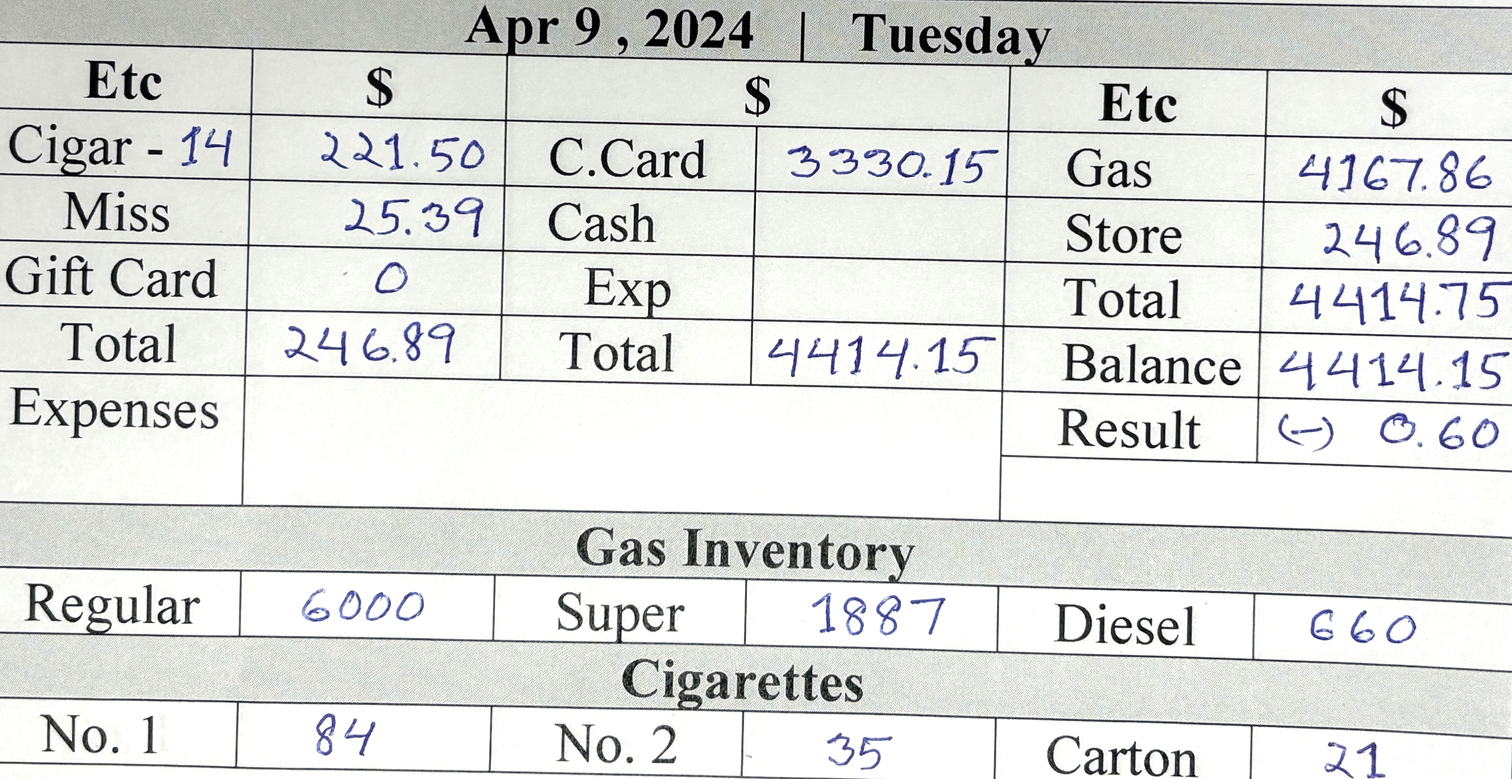
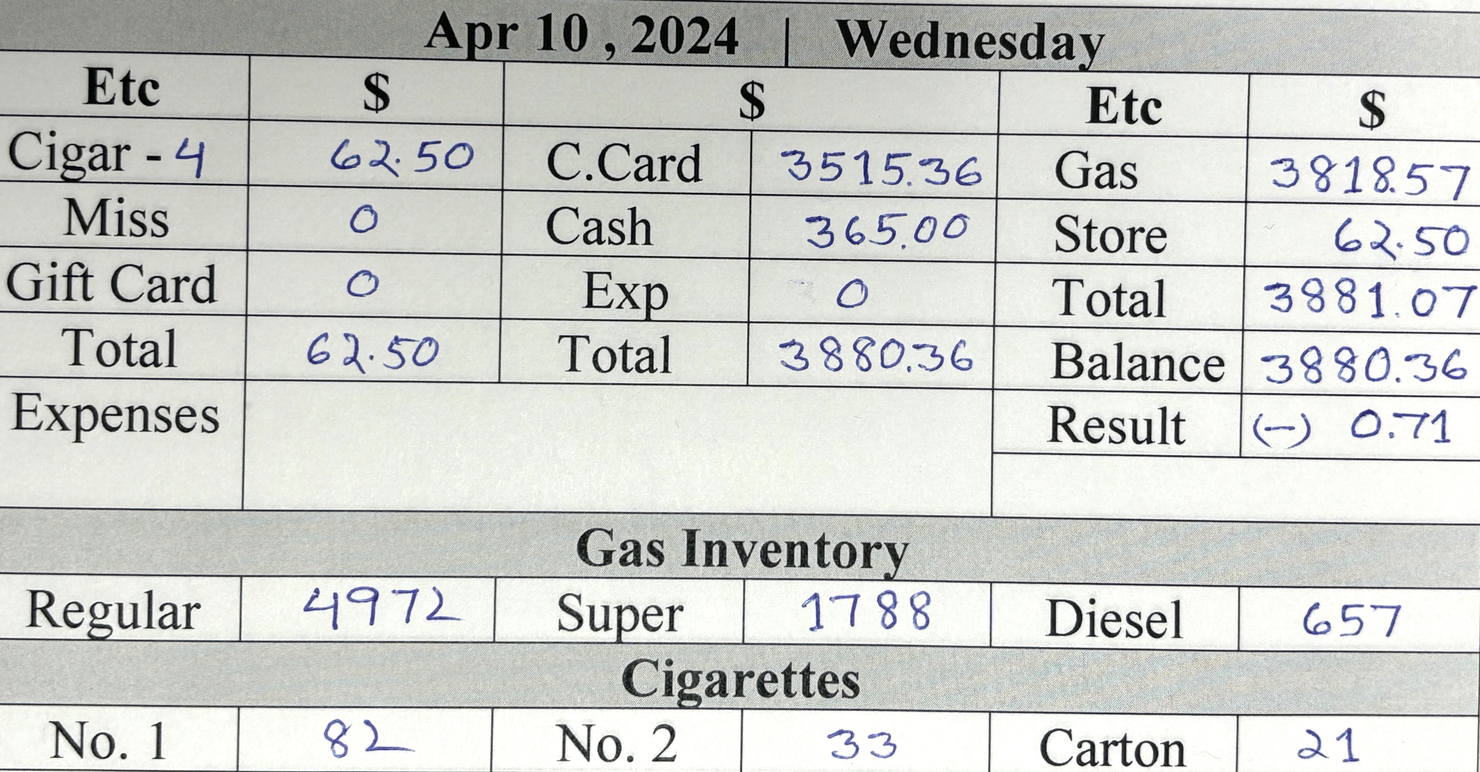
d

diff --git a/card.min.html b/card.min.html
@@ -1,1 +1,1 @@
-<!DOCTYPE html> <html lang="en"> <head> <meta charset="UTF-8"> <meta http-equiv="X-UA-Compatible" content="IE=edge"> <meta name="viewport" content="width=device-width,initial-scale=1"> <title>Gallon Info</title> <link rel="stylesheet" href="https://cdn.jsdelivr.net/npm/bootstrap@5.3.0-alpha1/dist/css/bootstrap.min.css"> </head> <body> <div class="card-group d-sm-flex flex-row bd-highlight mb- justify-content-center"> <div class="card bg-secondary align-items-center justify-content-center" style="height:50px"> <div class="card-body text-info fst-italic"> <h5 class="card-title fw-bolder text-center">Regular Price : <span class="text-warning">$3.25</span></h5> </div> </div> <div class="card bg-secondary align-items-center justify-content-center" style="height:50px"> <div class="card-body text-info fst-italic"> <h5 class="card-title fw-bolder text-center pt-">Silver Price : <span class="text-warning">$4.19</span></h5> </div> </div> <div class="card bg-secondary align-items-center justify-content-center" style="height:50px"> <div class="card-body text-info fst-italic"> <h5 class="card-title fw-bolder text-center">Super Price : <span class="text-warning">$4.29</span></h5> </div> </div> <div class="card bg-secondary align-items-center justify-content-center" style="height:50px"> <div class="card-body text-info fst-italic"> <h5 class="card-title fw-bolder text-center">Diesel Price : <span class="text-warning">$4.39</span></h5> </div> </div> </div> <div class="card-group"> <div class="card"> <button type="button" class="btn btn-warning text- fs- fw-bold text-uppercase"> For store Details <a title="printPage Me" class="text-bg-danger ms-3 fw-bolder p-1 rounded-3 text-decoration-none" href="index.html"> Click Me </a> </button> </div> </div> <div class="card-group m-0 d-sm-flex flex-row bd-highlight mb-"> <div class="card me-1 bg-info"> <h5 class="card-title text-center pt-4 m-0"> <button class="p-1 rounded-3" type="button"><a title="Click Me" class="text-decoration-none text-primary fw-bolder" href="index.html">   </a> </button> </h5>  <p class="card-text"></p> <img src="allPic/9.jpg" class="card-img-top text-danger text-center fw-bolder fs-3" alt="Call Rashid "> <div class="card-body">   <p class="card-text"></p> </div> </div> <div class="card me-1 bg-info"> <h5 class="card-title text-center pt-4 m-0"> <button class="p-1 rounded-3" type="button"><a title="Click Me" class="text-primary fw-bolder text-decoration-none" href="index.html"> Apr 8,2024 </a> </button> </h5>  <p class="card-text"></p> <img src="allPic/8.jpg" class="card-img-top text-center text-bg-danger" alt="Not Done"> <div class="card-body">   <p class="card-text"></p> </div> </div> <div class="card ms- bg-info"> <h5 class="card-title text-center pt-4 m-0"> <button class="p-1 rounded-3" type="button"><a title="Click Me" class="text-primary fw-bolder text-decoration-none" href="index.html"> Apr 7,2024 </a> </button> </h5>  <p class="card-text"></p> <img src="allPic/7.jpg" class="card-img-top text-center text-bg-danger" alt="Not Done"> <div class="card-body">   <p class="card-text"></p> </div> </div> <div class="card me-1 bg-info"> <h5 class="card-title text-center pt-4 m-0"> <button class="p-1 rounded-3" type="button"><a title="Click Me" class="text-primary fw-bolder text-decoration-none" href="index.html"> Apr 6,2024 </a> </button> </h5>  <p class="card-text"></p> <img title="Pic" src="allPic/6.jpg" class="card-img-top text-bg-danger fw-bolder text-center" alt="Already Done"> <div class="card-body">   <p class="card-text"></p> </div> </div> </div> <div class="card"> <div class="card-header bg-warning text-dark fw-bolder text-center py-3"> All Rights Reserved @ Jaber Ali , 2024 </div> </div>  <script type="text/javascript">const timeElement=document.querySelector(".time"),dateElement=document.querySelector(".date");function formatTime(e){e.getHours(),e.getMinutes(),e.getHours();return""}function formatDate(e){return` ${["January","Marruary","March","April","May","June","July","August","September","October","November","December"][e.getMonth()]} ${e.getDate()-1}, ${e.getFullYear()}`}setInterval((()=>{const e=new Date;timeElement.textContent=formatTime(e),dateElement.textContent=formatDate(e)}),200)</script> 
+<!DOCTYPE html> <html lang="en"> <head> <meta charset="UTF-8"> <meta http-equiv="X-UA-Compatible" content="IE=edge"> <meta name="viewport" content="width=device-width,initial-scale=1"> <title>Gallon Info</title> <link rel="stylesheet" href="https://cdn.jsdelivr.net/npm/bootstrap@5.3.0-alpha1/dist/css/bootstrap.min.css"> </head> <body> <div class="card-group d-sm-flex flex-row bd-highlight mb- justify-content-center"> <div class="card bg-secondary align-items-center justify-content-center" style="height:50px"> <div class="card-body text-info fst-italic"> <h5 class="card-title fw-bolder text-center">Regular Price : <span class="text-warning">$3.25</span></h5> </div> </div> <div class="card bg-secondary align-items-center justify-content-center" style="height:50px"> <div class="card-body text-info fst-italic"> <h5 class="card-title fw-bolder text-center pt-">Silver Price : <span class="text-warning">$4.19</span></h5> </div> </div> <div class="card bg-secondary align-items-center justify-content-center" style="height:50px"> <div class="card-body text-info fst-italic"> <h5 class="card-title fw-bolder text-center">Super Price : <span class="text-warning">$4.29</span></h5> </div> </div> <div class="card bg-secondary align-items-center justify-content-center" style="height:50px"> <div class="card-body text-info fst-italic"> <h5 class="card-title fw-bolder text-center">Diesel Price : <span class="text-warning">$4.39</span></h5> </div> </div> </div> <div class="card-group"> <div class="card"> <button type="button" class="btn btn-warning text- fs- fw-bold text-uppercase"> For store Details <a title="printPage Me" class="text-bg-danger ms-3 fw-bolder p-1 rounded-3 text-decoration-none" href="index.html"> Click Me </a> </button> </div> </div> <div class="card-group m-0 d-sm-flex flex-row bd-highlight mb-"> <div class="card me-1 bg-info"> <h5 class="card-title text-center pt-4 m-0"> <button class="p-1 rounded-3" type="button"><a title="Click Me" class="text-decoration-none text-primary fw-bolder" href="index.html">   </a> </button> </h5>  <p class="card-text"></p> <img src="allPic/10.jpg" class="card-img-top text-danger text-center fw-bolder fs-3" alt="Call Rashid "> <div class="card-body">   <p class="card-text"></p> </div> </div> <div class="card me-1 bg-info"> <h5 class="card-title text-center pt-4 m-0"> <button class="p-1 rounded-3" type="button"><a title="Click Me" class="text-primary fw-bolder text-decoration-none" href="index.html"> Apr 9,2024 </a> </button> </h5>  <p class="card-text"></p> <img src="allPic/9.jpg" class="card-img-top text-center text-bg-danger" alt="Not Done"> <div class="card-body">   <p class="card-text"></p> </div> </div> <div class="card ms- bg-info"> <h5 class="card-title text-center pt-4 m-0"> <button class="p-1 rounded-3" type="button"><a title="Click Me" class="text-primary fw-bolder text-decoration-none" href="index.html"> Apr 8,2024 </a> </button> </h5>  <p class="card-text"></p> <img src="allPic/8.jpg" class="card-img-top text-center text-bg-danger" alt="Not Done"> <div class="card-body">   <p class="card-text"></p> </div> </div> <div class="card me-1 bg-info"> <h5 class="card-title text-center pt-4 m-0"> <button class="p-1 rounded-3" type="button"><a title="Click Me" class="text-primary fw-bolder text-decoration-none" href="index.html"> Apr 7,2024 </a> </button> </h5>  <p class="card-text"></p> <img title="Pic" src="allPic/7.jpg" class="card-img-top text-bg-danger fw-bolder text-center" alt="Already Done"> <div class="card-body">   <p class="card-text"></p> </div> </div> </div> <div class="card"> <div class="card-header bg-warning text-dark fw-bolder text-center py-3"> All Rights Reserved @ Jaber Ali , 2024 </div> </div>  <script type="text/javascript">const timeElement=document.querySelector(".time"),dateElement=document.querySelector(".date");function formatTime(e){e.getHours(),e.getMinutes(),e.getHours();return""}function formatDate(e){return` ${["January","Marruary","March","April","May","June","July","August","September","October","November","December"][e.getMonth()]} ${e.getDate()-1}, ${e.getFullYear()}`}setInterval((()=>{const e=new Date;timeElement.textContent=formatTime(e),dateElement.textContent=formatDate(e)}),200)</script> 

diff --git a/index.min.html b/index.min.html
@@ -1,1 +1,1 @@
-<!DOCTYPE html> <html lang="en"> <head> <meta charset="UTF-8"> <meta http-equiv="X-UA-Compatible" content="IE=edge"> <meta name="viewport" content="width=device-width,initial-scale=1"> <title>Store Info</title> <link rel="stylesheet" href="https://cdn.jsdelivr.net/npm/bootstrap@5.3.0-alpha1/dist/css/bootstrap.min.css"> </head> <body> <div class="text-bg-success py-2 fw-bold text-uppercase"> <marquee behavior="" direction=""><span class="text-bolder text-bg-danger rounded-circle m-lg-2 fs-">***</span> Personal Business Information <span class="text-bolder text-bg-danger rounded-circle m-lg-2 fs-">***</span></marquee> </div> <div class="card-group"> <div class="card"> <button type="button" class="btn btn-warning fs- fw-bold text-uppercase"> For Gallon Details <a title="printPage Me" class="text-bg-danger ms-3 fw-bolder p-1 rounded-3 text-decoration-none" href="card.html"> Click Me </a> </button> </div> <div class="card"> <button type="button" class="btn btn-warning fs- fw-bold text-uppercase"> Weekly Total Money<a title="printPage Me" class="text-bg-danger ms-3 fw-bolder p-1 rounded-3 text-decoration-none" href="weekly.html"> Click Me </a> </button> </div> </div> <div class="card-group"> <div class="card"> <button type="button" class="btn btn-warning fs- fw-bold text-uppercase"> Order Cigarettes <a title="printPage Me" class="text-bg-danger ms-3 fw-bolder p-1 rounded-3 text-decoration-none" href="cigarettes.html"> Click Me </a> </button> </div> <div class="card"> <button type="button" class="btn btn-warning fs- fw-bold text-uppercase"> Oil Inventory<a title="printPage Me" class="text-bg-danger ms-3 fw-bolder p-1 rounded-3 text-decoration-none" href="oil.html"> Click Me </a> </button> </div> </div> <div class="text-center py-2"> <button class="fw-bold fs-5 rounded-2 text-bg-light text-primary"> <a title="printPage Me" class="text-decoration-none" href="card.html">   <span class=""> <button class="ms-5 fw-bolder rounded-2" onclick="printPage()"> Print Me </button></span> </a> </button> </div> <div class="card-group"> <div class="card"> <button type="button" class="btn btn-info fs- fw-bold text-uppercase"> Shift Report <span class="text-white ms-1">*</span> </button> <img src="allPic/hisab.jpg" class="card-img-top text-center text-bg-danger" alt="NOT FINISH"> </div> </div> <div class="card-grou"> <div class="card pb-3"> <button type="button" class="btn btn-secondary fs fw-bold text-uppercase"> Exp : <span class="text-warning ms-3">0 </span> </button> </div> </div> <div class="card-group"> <div class="card"> <button type="button" class="btn btn-secondary fs- fw-bold text-uppercase"> Auto shop </button> </div> </div> <div class="pb-3"> <div class="d-flex justify-content-around border border-dark fw-bolder"> <div class="p-0 text-info">T.M</div> <div class="p-0 text-danger">1440 </div> <div class="p-0 text-info">Etc</div> <div class="p-0 text-danger">554</div> <div class="p-0 text-info">Rest</div> <div class="p-0 text-danger">886</div> </div> </div> <!-- #footer start --> <div class="text-bg-warning text-center py-3 fw-bold"> All Rights Reserved @ Jaber Ali , 2024 </div>  <script type="text/javascript">function printPage(){window.print()}const timeElement=document.querySelector(".time"),dateElement=document.querySelector(".date");function formatTime(t){const e=t.getHours()%12||12,n=t.getMinutes(),r=t.getHours()<12;return`${e.toString().padStart(2,"0")}:${n.toString().padStart(2,"0")} ${r?"AM":"PM"}`}function formatDate(t){return` ${["January","February","March","April","May","June","July","August","September","October","November","December"][t.getMonth()]} ${t.getDate()-1}, ${t.getFullYear()}`}setInterval((()=>{const t=new Date;timeElement.textContent=formatTime(t),dateElement.textContent=formatDate(t)}),200)</script> 
+<!DOCTYPE html> <html lang="en"> <head> <meta charset="UTF-8"> <meta http-equiv="X-UA-Compatible" content="IE=edge"> <meta name="viewport" content="width=device-width,initial-scale=1"> <title>Store Info</title> <link rel="stylesheet" href="https://cdn.jsdelivr.net/npm/bootstrap@5.3.0-alpha1/dist/css/bootstrap.min.css"> </head> <body> <div class="text-bg-success py-2 fw-bold text-uppercase"> <marquee behavior="" direction=""><span class="text-bolder text-bg-danger rounded-circle m-lg-2 fs-">***</span> Personal Business Information <span class="text-bolder text-bg-danger rounded-circle m-lg-2 fs-">***</span></marquee> </div> <div class="card-group"> <div class="card"> <button type="button" class="btn btn-warning fs- fw-bold text-uppercase"> For Gallon Details <a title="printPage Me" class="text-bg-danger ms-3 fw-bolder p-1 rounded-3 text-decoration-none" href="card.html"> Click Me </a> </button> </div> <div class="card"> <button type="button" class="btn btn-warning fs- fw-bold text-uppercase"> Weekly Total Money<a title="printPage Me" class="text-bg-danger ms-3 fw-bolder p-1 rounded-3 text-decoration-none" href="weekly.html"> Click Me </a> </button> </div> </div> <div class="card-group"> <div class="card"> <button type="button" class="btn btn-warning fs- fw-bold text-uppercase"> Order Cigarettes <a title="printPage Me" class="text-bg-danger ms-3 fw-bolder p-1 rounded-3 text-decoration-none" href="cigarettes.html"> Click Me </a> </button> </div> <div class="card"> <button type="button" class="btn btn-warning fs- fw-bold text-uppercase"> Oil Inventory<a title="printPage Me" class="text-bg-danger ms-3 fw-bolder p-1 rounded-3 text-decoration-none" href="oil.html"> Click Me </a> </button> </div> </div> <div class="text-center py-2"> <button class="fw-bold fs-5 rounded-2 text-bg-light text-primary"> <a title="printPage Me" class="text-decoration-none" href="card.html">   <span class=""> <button class="ms-5 fw-bolder rounded-2" onclick="printPage()"> Print Me </button></span> </a> </button> </div> <div class="card-group"> <div class="card"> <button type="button" class="btn btn-info fs- fw-bold text-uppercase"> Shift Report <span class="text-white ms-1">*</span> </button> <img src="allPic/hisab.jpg" class="card-img-top text-center text-bg-danger" alt="NOT FINISH"> </div> </div> <div class="card-grou"> <div class="card pb-3"> <button type="button" class="btn btn-secondary fs fw-bold text-uppercase"> Exp : <span class="text-warning ms-3">0 </span> </button> </div> </div> <div class="card-group"> <div class="card"> <button type="button" class="btn btn-secondary fs- fw-bold text-uppercase"> Auto shop </button> </div> </div> <div class="pb-3"> <div class="d-flex justify-content-around border border-dark fw-bolder"> <div class="p-0 text-info">T.M</div> <div class="p-0 text-danger">2198 </div> <div class="p-0 text-info">Etc</div> <div class="p-0 text-danger">591</div> <div class="p-0 text-info">Rest</div> <div class="p-0 text-danger">1607</div> </div> </div> <!-- #footer start --> <div class="text-bg-warning text-center py-3 fw-bold"> All Rights Reserved @ Jaber Ali , 2024 </div>  <script type="text/javascript">function printPage(){window.print()}const timeElement=document.querySelector(".time"),dateElement=document.querySelector(".date");function formatTime(t){const e=t.getHours()%12||12,n=t.getMinutes(),r=t.getHours()<12;return`${e.toString().padStart(2,"0")}:${n.toString().padStart(2,"0")} ${r?"AM":"PM"}`}function formatDate(t){return` ${["January","February","March","April","May","June","July","August","September","October","November","December"][t.getMonth()]} ${t.getDate()-1}, ${t.getFullYear()}`}setInterval((()=>{const t=new Date;timeElement.textContent=formatTime(t),dateElement.textContent=formatDate(t)}),200)</script> 

diff --git a/weekly.min.html b/weekly.min.html
@@ -1,1 +1,1 @@
-<!DOCTYPE html> <html lang="en"> <meta charset="UTF-8"> <meta http-equiv="X-UA-Compatible" content="IE=edge"> <meta name="viewport" content="width=device-width,initial-scale=1"> <title>Cigarettes Info</title> <link rel="stylesheet" href="https://cdn.jsdelivr.net/npm/bootstrap@5.3.0-alpha1/dist/css/bootstrap.min.css">  <body> <div class="text-bg-success py-2 fw-bold"> <marquee behavior="" direction="">Weekly Total Sales Money</marquee> </div> <div class="container-fluid text-center m-0 p-0"> <div class="card-group"> <div class="card"> <button type="button" class="btn btn-warning fs- fw-bold text-uppercase"> Home Page <a title="printPage Me" class="text-bg-danger ms-2 fw-bolder p-1 rounded-3 text-decoration-none" href="index.html"> Click Me </a> </button> </div> </div> <div class="text-bg-info text-cente py- fw-bold mb-"> <div class="card-group m-0 d-sm-flex flex-row bd-highlight mb-"> <div class="card me- bg-inf"> <h5 class="text-center ms-5 mt-3 text-danger">Current Week</h5> <div class="card-body ms-3 p-0"> <table class="table"> <tr class="text-end"> <td>Monday </td> <td>:</td> <td class="text-start"> 586.00</td> </tr> <tr class="text-end"> <td>Tuesday </td> <td> :</td> <td class="text-start"> 1084.00 </td> </tr> <tr class="text-end"> <td>Wednesday</td> <td> :</td> <td class="text-start">.00</td> </tr> <tr class="text-end"> <td>Thursday </td> <td> :</td> <td class="text-start">.00 </td> </tr> <tr class="text-end"> <td class="">Friday </td> <td> :</td> <td class="text-start"> .00</td> </tr> <tr class="text-end"> <td>Saturday </td> <td> :</td> <td class="text-start"> .00</td> </tr> <tr class="text-end"> <td>Sunday </td> <td> :</td> <td class="text-start"> .00 </td> </tr> <tr class="text-end"> <td>Auto Money </td> <td> :</td> <td class="text-start"> .00 </td> </tr> </table> <div class="m-0 p-0"> <p class="text-center text-danger bg-light fw-bold">Total Money : 0 </p> </div> </div> </div> <div class="card me- bg-inf"> <h5 class="text-center ms- mt-3 text-danger">Last Week : Apr 1 to 7 , 2024</h5> <div class="card-body ms-3 p-0"> <table class="table"> <tr class="text-end"> <td>Monday </td> <td>:</td> <td class="text-start"> 466.00</td> </tr> <tr class="text-end"> <td>Tuesday </td> <td> :</td> <td class="text-start"> 97.00 </td> </tr> <tr class="text-end"> <td>Wednesday</td> <td> :</td> <td class="text-start">823.00</td> </tr> <tr class="text-end"> <td>Thursday </td> <td> :</td> <td class="text-start">506.00 </td> </tr> <tr class="text-end"> <td class="">Friday </td> <td> :</td> <td class="text-start"> 1109.00</td> </tr> <tr class="text-end"> <td>Saturday </td> <td> :</td> <td class="text-start"> - 1091.00 [ Auto pabe ]</td> </tr> <tr class="text-end"> <td>Sunday </td> <td> :</td> <td class="text-start"> 583.00 </td> </tr> <tr class="text-end"> <td>Auto Money </td> <td> :</td> <td class="text-start">1986 <sup class="p-1 rounded-4 text-bg-dark">Tax:230</sup> [Mostofa=1756] </td> </tr> </table> <div class="m-0 p-0"> <p class="text-center text-danger bg-light fw-bold">Total Money : 4479 - 1223 = 3256 </p> </div> </div> </div> <div class="card me- bg-"> <div class="card-body"> <h5 class="text-start text-danger ms-2">Expenses of Last Week</h5> <table class="table text-start"> <tr> <td class="">Ali <span class="ms-5">: 495.00</span></td> </tr> <tr> <td class="">Rashid <span class="ms-3">: 728.00</span></td> </tr> <tr> <td class="text-bg-warning text-dark rounded-2">Total <span class="ms-4">: 1223.00</span></td> </tr> </table> </div> </div> </div> </div> <!-- #footer start --> <div class="text-bg-success text-center py-2 fw-bold"> <p> All Rights Reserved @ Jaber Ali , 2024  </p> </div> </div> <script type="text/javascript">function printPage(){window.print()}</script> 
+<!DOCTYPE html> <html lang="en"> <meta charset="UTF-8"> <meta http-equiv="X-UA-Compatible" content="IE=edge"> <meta name="viewport" content="width=device-width,initial-scale=1"> <title>Cigarettes Info</title> <link rel="stylesheet" href="https://cdn.jsdelivr.net/npm/bootstrap@5.3.0-alpha1/dist/css/bootstrap.min.css">  <body> <div class="text-bg-success py-2 fw-bold"> <marquee behavior="" direction="">Weekly Total Sales Money</marquee> </div> <div class="container-fluid text-center m-0 p-0"> <div class="card-group"> <div class="card"> <button type="button" class="btn btn-warning fs- fw-bold text-uppercase"> Home Page <a title="printPage Me" class="text-bg-danger ms-2 fw-bolder p-1 rounded-3 text-decoration-none" href="index.html"> Click Me </a> </button> </div> </div> <div class="text-bg-info text-cente py- fw-bold mb-"> <div class="card-group m-0 d-sm-flex flex-row bd-highlight mb-"> <div class="card me- bg-inf"> <h5 class="text-center ms-5 mt-3 text-danger">Current Week</h5> <div class="card-body ms-3 p-0"> <table class="table"> <tr class="text-end"> <td>Monday </td> <td>:</td> <td class="text-start"> 586.00</td> </tr> <tr class="text-end"> <td>Tuesday </td> <td> :</td> <td class="text-start"> 1084.00 </td> </tr> <tr class="text-end"> <td>Wednesday</td> <td> :</td> <td class="text-start">365.00</td> </tr> <tr class="text-end"> <td>Thursday </td> <td> :</td> <td class="text-start">.00 </td> </tr> <tr class="text-end"> <td class="">Friday </td> <td> :</td> <td class="text-start"> .00</td> </tr> <tr class="text-end"> <td>Saturday </td> <td> :</td> <td class="text-start"> .00</td> </tr> <tr class="text-end"> <td>Sunday </td> <td> :</td> <td class="text-start"> .00 </td> </tr> <tr class="text-end"> <td>Auto Money </td> <td> :</td> <td class="text-start"> .00 </td> </tr> </table> <div class="m-0 p-0"> <p class="text-center text-danger bg-light fw-bold">Total Money : 0 </p> </div> </div> </div> <div class="card me- bg-inf"> <h5 class="text-center ms- mt-3 text-danger">Last Week : Apr 1 to 7 , 2024</h5> <div class="card-body ms-3 p-0"> <table class="table"> <tr class="text-end"> <td>Monday </td> <td>:</td> <td class="text-start"> 466.00</td> </tr> <tr class="text-end"> <td>Tuesday </td> <td> :</td> <td class="text-start"> 97.00 </td> </tr> <tr class="text-end"> <td>Wednesday</td> <td> :</td> <td class="text-start">823.00</td> </tr> <tr class="text-end"> <td>Thursday </td> <td> :</td> <td class="text-start">506.00 </td> </tr> <tr class="text-end"> <td class="">Friday </td> <td> :</td> <td class="text-start"> 1109.00</td> </tr> <tr class="text-end"> <td>Saturday </td> <td> :</td> <td class="text-start"> - 1091.00 [ Auto pabe ]</td> </tr> <tr class="text-end"> <td>Sunday </td> <td> :</td> <td class="text-start"> 583.00 </td> </tr> <tr class="text-end"> <td>Auto Money </td> <td> :</td> <td class="text-start">1986 <sup class="p-1 rounded-4 text-bg-dark">Tax:230</sup> [Mostofa=1756] </td> </tr> </table> <div class="m-0 p-0"> <p class="text-center text-danger bg-light fw-bold">Total Money : 4479 - 1223 = 3256 </p> </div> </div> </div> <div class="card me- bg-"> <div class="card-body"> <h5 class="text-start text-danger ms-2">Expenses of Last Week</h5> <table class="table text-start"> <tr> <td class="">Ali <span class="ms-5">: 495.00</span></td> </tr> <tr> <td class="">Rashid <span class="ms-3">: 728.00</span></td> </tr> <tr> <td class="text-bg-warning text-dark rounded-2">Total <span class="ms-4">: 1223.00</span></td> </tr> </table> </div> </div> </div> </div> <!-- #footer start --> <div class="text-bg-success text-center py-2 fw-bold"> <p> All Rights Reserved @ Jaber Ali , 2024  </p> </div> </div> <script type="text/javascript">function printPage(){window.print()}</script> 

diff --git a/card.html b/card.html
@@ -67,7 +67,7 @@
         </h5>
           <p class="card-text"></p>
           <p class="card-text"><small class="text-muted"></small></p>
-        <img src="allPic/9.jpg" class="card-img-top text-danger text-center fw-bolder fs-3"   alt="Call Rashid ">
+        <img src="allPic/10.jpg" class="card-img-top text-danger text-center fw-bolder fs-3"   alt="Call Rashid ">
         <div class="card-body">
           <h5 class="card-title"></h5>
           <p class="card-text"></p>
@@ -78,13 +78,13 @@
         <h5 class="card-title text-center pt-4 m-0">
           <button class="p-1 rounded-3" type="button"><a title="Click Me"
              class="text-primary fw-bolder text-decoration-none " href="index.html">
-             Apr 8,2024
+             Apr 9,2024
           </a>
           </button>
         </h5>
           <p class="card-text"></p>
           <p class="card-text"><small class="text-muted"></small></p>
-        <img src="allPic/8.jpg" class="card-img-top text-center text-bg-danger" 
+        <img src="allPic/9.jpg" class="card-img-top text-center text-bg-danger" 
         alt="Not Done">
         <div class="card-body">
           <h5 class="card-title"></h5>
@@ -96,13 +96,13 @@
         <h5 class="card-title text-center pt-4 m-0 ">
           <button class="p-1 rounded-3" type="button"><a title="Click Me" 
             class="text-primary fw-bolder text-decoration-none " href="index.html">
-            Apr 7,2024         
+            Apr 8,2024         
           </a>
           </button>
           </h5>
           <p class="card-text"></p>
           <p class="card-text"><small class="text-muted"></small></p>
-        <img src="allPic/7.jpg" class="card-img-top text-center text-bg-danger" 
+        <img src="allPic/8.jpg" class="card-img-top text-center text-bg-danger" 
         alt="Not Done">
         <div class="card-body">
           <h5 class="card-title"></h5>
@@ -115,13 +115,13 @@
         <h5 class="card-title text-center pt-4 m-0 ">
           <button class="p-1 rounded-3" type="button"><a title="Click Me" 
             class="text-primary fw-bolder text-decoration-none " href="index.html">
-             Apr 6,2024
+             Apr 7,2024
             </a>
           </button>
           </h5>
           <p class="card-text"></p>
           <p class="card-text"><small class="text-muted"></small></p>
-        <img title="Pic" src="allPic/6.jpg" class="card-img-top  text-bg-danger fw-bolder text-center"
+        <img title="Pic" src="allPic/7.jpg" class="card-img-top  text-bg-danger fw-bolder text-center"
          alt="Already Done">
         <div class="card-body">
           <h5 class="card-title"></h5>

diff --git a/index.html b/index.html
@@ -118,12 +118,12 @@
       <div class="d-flex justify-content-around border border-dark fw-bolder">
         <!--this week start-->
         <div class="p-0 text-info">T.M</div>
-        <div class="p-0 text-danger">1440 </div>
+        <div class="p-0 text-danger">2198 </div>
         <div class="p-0 text-info">Etc</div>
-        <div class="p-0 text-danger">554</div>
+        <div class="p-0 text-danger">591</div>
         <div class="p-0 text-info">Rest</div>
-        <div class="p-0 text-danger">886</div>
-          <!--15*4-->
+        <div class="p-0 text-danger">1607</div>
+          <!--0-->
         </div>
       </div>
     

diff --git a/weekly.html b/weekly.html
@@ -59,7 +59,7 @@
                 <tr class=" text-end">
                     <td>Wednesday</td>
                     <td> :</td>
-                    <td class="text-start">.00</td>
+                    <td class="text-start">365.00</td>
                 </tr>
                 <tr class=" text-end">
                     <td>Thursday </td>
